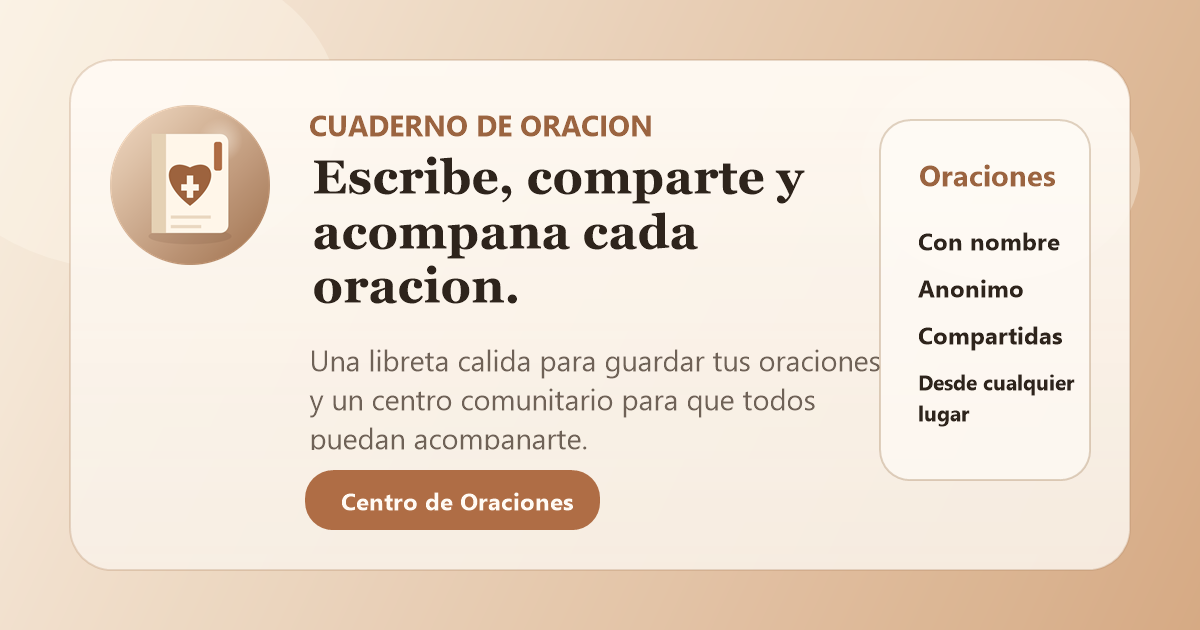
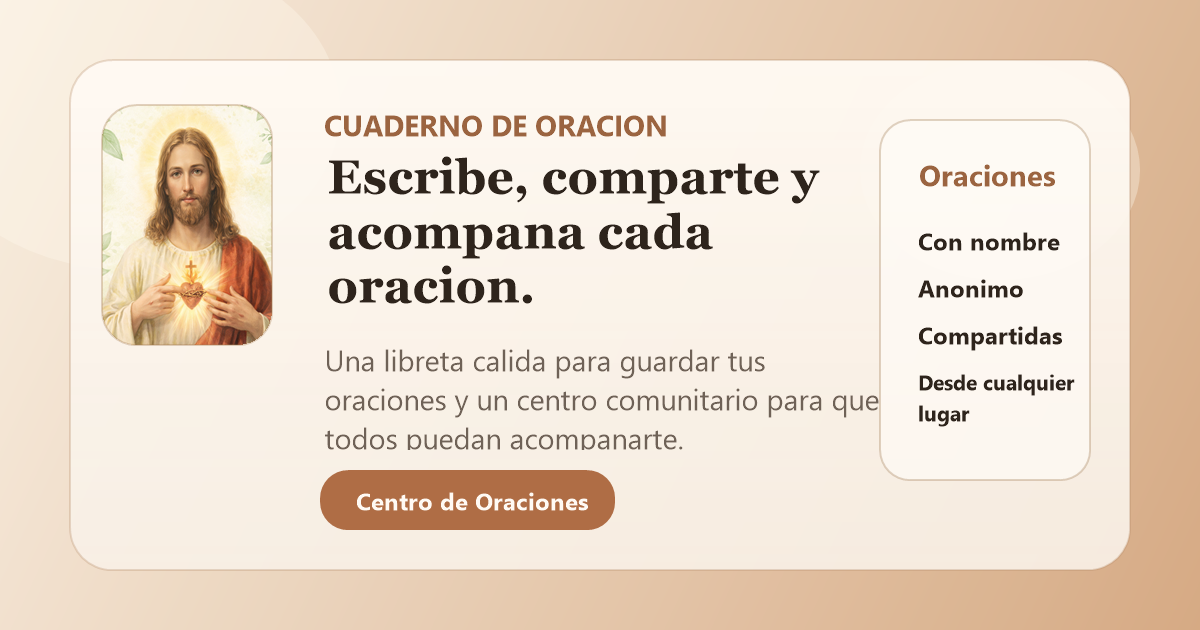
Use Jesus artwork in branding and OG

Changed region(s): [[0.0617, 0.1508, 0.6783, 0.573], [0.2467, 0.5429, 0.74, 0.7238], [0.2467, 0.754, 0.5242, 0.8444]]

diff --git a/index.html b/index.html
@@ -51,8 +51,8 @@
       <div class="topbar-brand">
         <img
           class="topbar-mark"
-          src="assets/logo-mark.svg"
-          alt="Logo del cuaderno de oración"
+          src="assets/branding/jesus-oracion-app.png"
+          alt="Imagen de Jesús del Cuaderno de oración"
           width="50"
           height="50"
         >
@@ -88,8 +88,8 @@
         <div class="brand-lockup">
           <img
             class="brand-mark"
-            src="assets/logo-mark.svg"
-            alt="Logo del cuaderno de oración"
+            src="assets/branding/jesus-oracion-app.png"
+            alt="Imagen de Jesús del Cuaderno de oración"
             width="88"
             height="88"
           >

diff --git a/styles.css b/styles.css
@@ -101,7 +101,10 @@ body.modal-open {
 }
 
 .topbar-mark {
+  object-fit: cover;
+  object-position: center 22%;
   border-radius: 18px;
+  border: 1px solid rgba(255, 255, 255, 0.72);
   box-shadow: 0 10px 22px rgba(138, 95, 62, 0.22);
 }
 
@@ -236,7 +239,10 @@ body.modal-open {
 
 .brand-mark {
   flex: 0 0 auto;
+  object-fit: cover;
+  object-position: center 22%;
   border-radius: 28px;
+  border: 1px solid rgba(255, 255, 255, 0.76);
   box-shadow: 0 16px 32px rgba(138, 95, 62, 0.22);
 }
 

diff --git a/sw.js b/sw.js
@@ -1,4 +1,4 @@
-const CACHE_NAME = "cuaderno-oracion-v8";
+const CACHE_NAME = "cuaderno-oracion-v9";
 const APP_ASSETS = [
   "./",
   "./index.html",
@@ -7,6 +7,7 @@ const APP_ASSETS = [
   "./manifest.webmanifest",
   "./assets/logo-mark.svg",
   "./assets/favicon.svg",
+  "./assets/branding/jesus-oracion-app.png",
   "./assets/backgrounds/fondo.png",
   "./assets/backgrounds/fondo-cel.png",
   "./assets/icons/icon-192.png",
